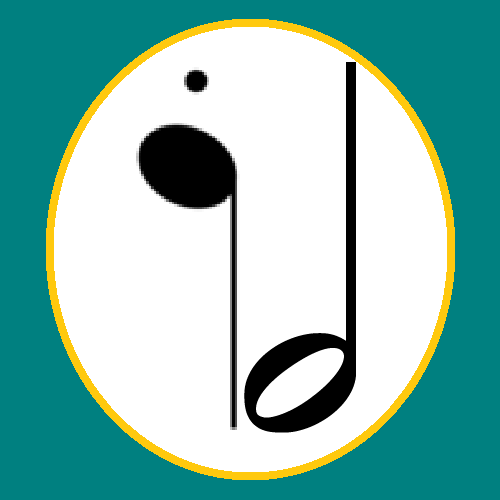
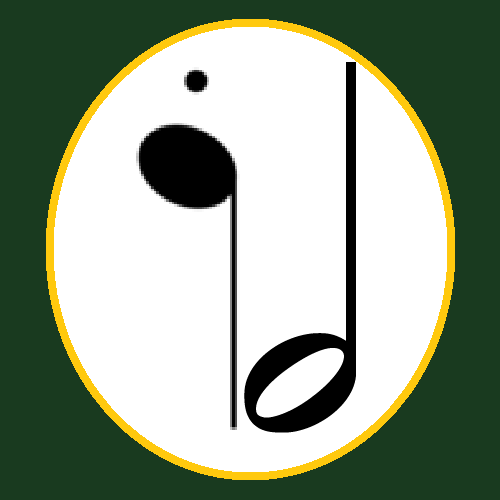
u3s#

diff --git a/unit_3/index.html b/unit_3/index.html
@@ -8,6 +8,18 @@
 <body>
 	<h1>MelID</h1>
 	<p id="slogan">Whistle the tune, and you'll get the name soon!</p>
+	
+
 	<img src="images/hero.png" id="hero">
+	<p>Ever have catchy tunes stuck in your head...but get all frustrated 'cause you can't name the title of the song? Well, with MelID installed on your device, you can put in as little as 5 seconds of a melody, and that'll be a problem no more! Play it out loud, whistle it, hum it--and it'll give you a whole list of all songs that it could be!</p><br><hr>
+	<p>Once you've got it on your device, you pick one of these five plans:</p>
+	<ul>
+		<li>Basic Plan: Totally Free of Charge, 3 ads for every third tune.</li>
+		<li>Silver Plan: $5 per month, 3 ads for every tenth tune.</li>
+		<li>Gold Plan: $10 per month, 3 ads for every 30th tune.</li>
+		<li>Platinum Plan: $20 per month, 1 ad for every 30th tune, free mp3 download for the songs that match your tunes.</li>
+		<li>Premium Plan: $40 per month, no ads, free mp3 download for the entire album of the songs that match your tunes...plus the instrumental/acapella versions!</li>
+	</ul>
+	<p>For any assistance, please contact us <a href="mailto:w14ns15g@gmail.com">by email</a> or at 828-742-4007.</p>
 </body>
 </html>

diff --git a/unit_3/css/style.css b/unit_3/css/style.css
@@ -1,5 +1,5 @@
 body {
-    background-image: url("background.png");
+    background: #193a1f;
    
 }
 
@@ -10,9 +10,29 @@ h1, p {
     
 }
 
+ul {
+    color: #8eee05;
+    font-family: Helvetica,sans-serif;
+    font-weight: 800;
+    
+}
+
 #hero {
 	display: block;
 	margin: auto;
 	width: 25%;
 
+}
+
+#slogan {
+	font-style: italic;
+
+}
+
+a:link {
+    color: #ff00ff;
+}
+
+a:visited {
+    color: #ffc0ff;
 }
